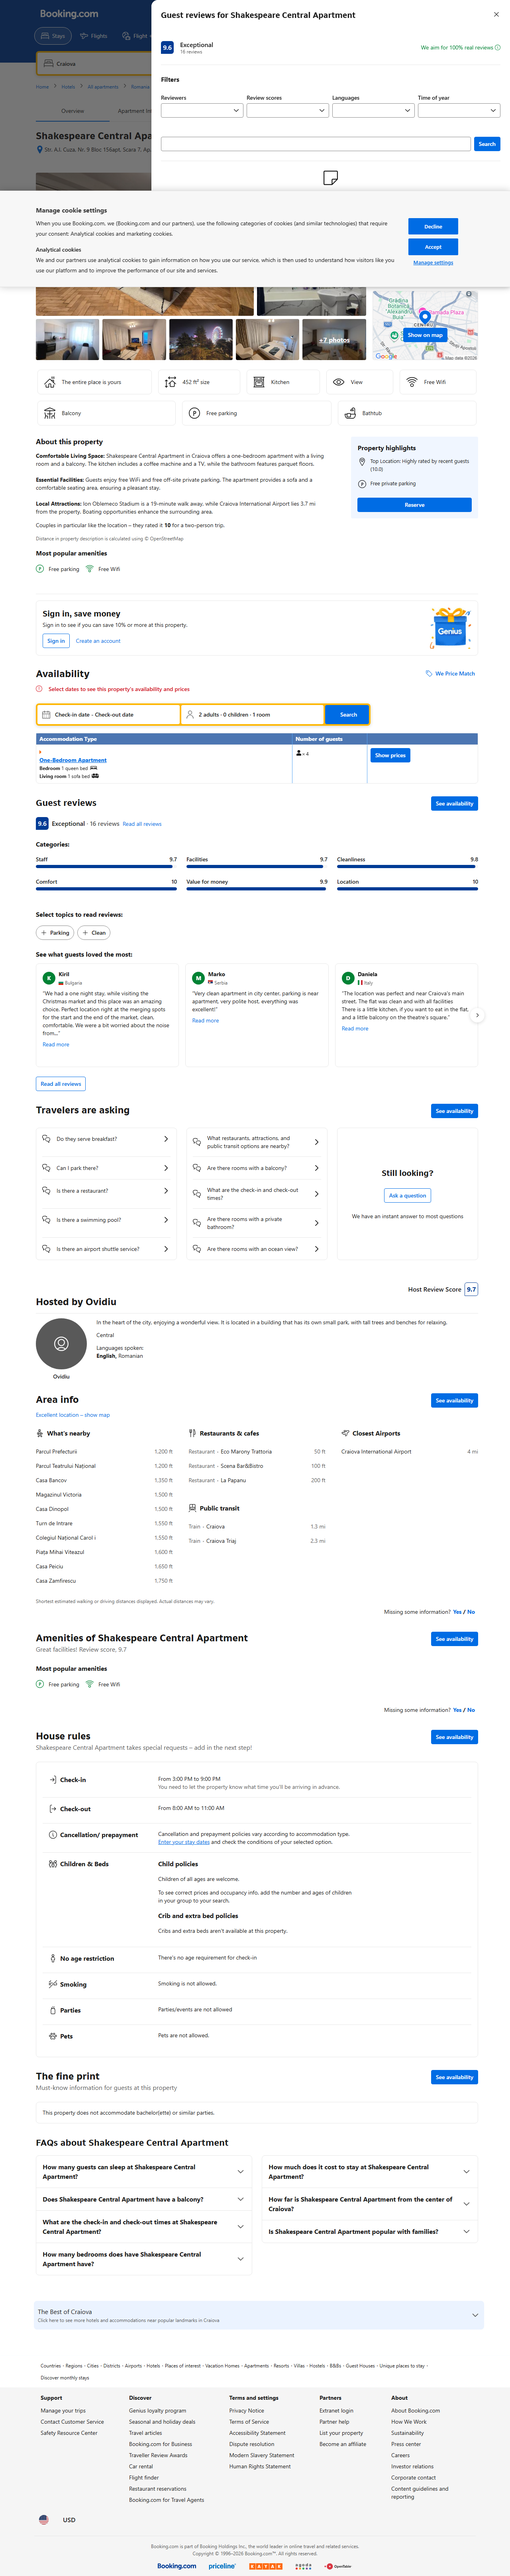
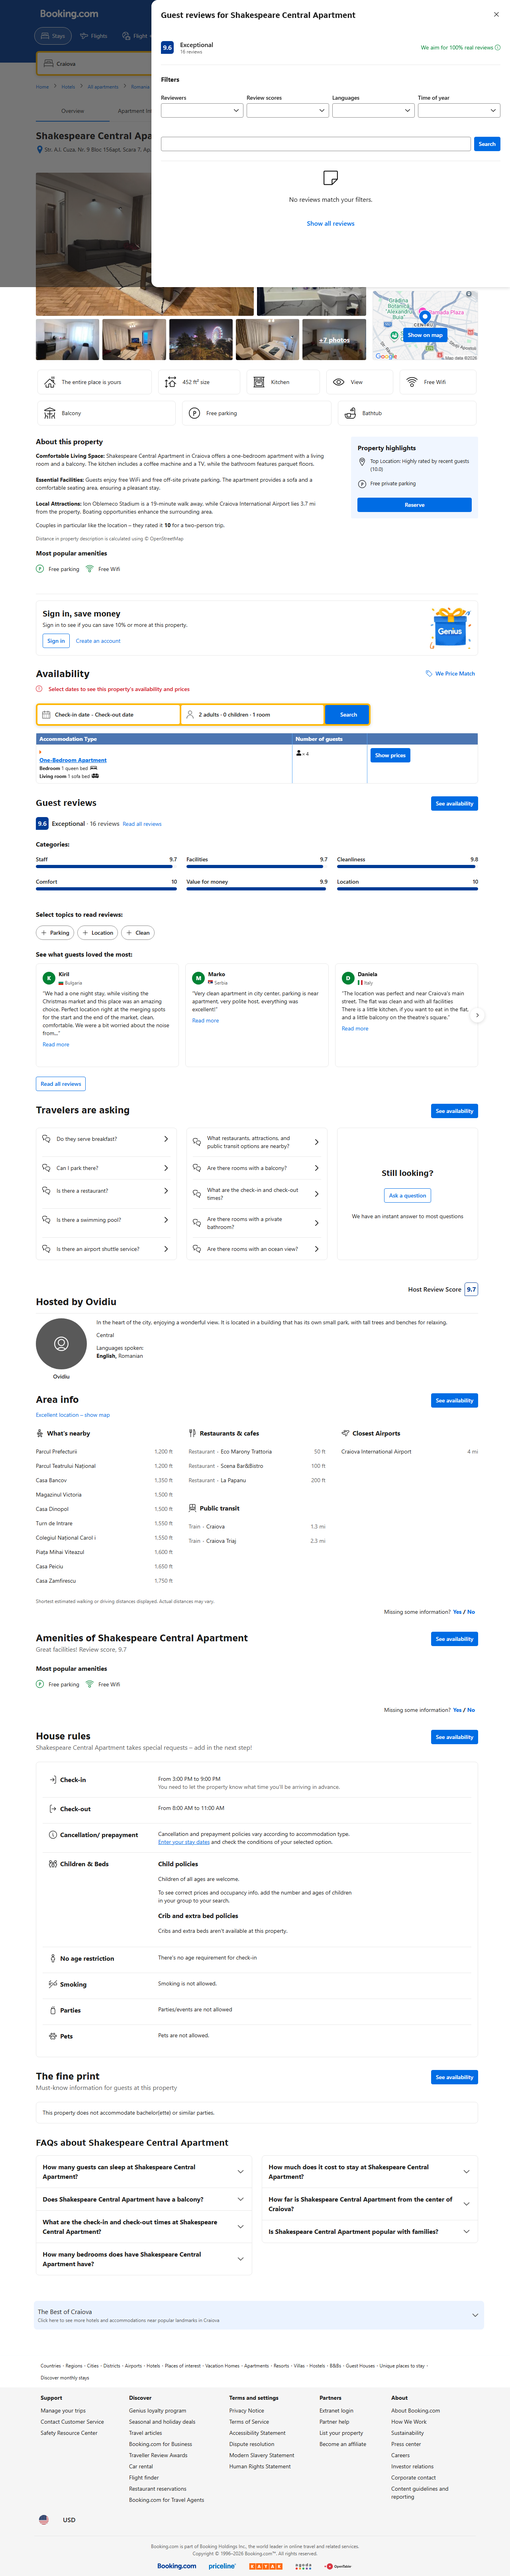
fix scrape.js to show first page with reviews

Changed region(s): [[0.0, 0.0622, 0.3125, 0.1245], [0.8125, 0.0622, 0.9062, 0.1245]]

diff --git a/backend/scrape.js b/backend/scrape.js
@@ -1,50 +1,91 @@
 const { chromium } = require("playwright");
 const fs = require("fs-extra");
+const path = require("path");
 
 const BOOKING_URL =
   "https://www.booking.com/hotel/ro/shakespeare-central-apartment.html";
 
 async function scrapeReviews() {
-  console.log("Starting Booking scrape...");
-
   const browser = await chromium.launch({
-    headless: true,
+    headless: false,
   });
 
   const page = await browser.newPage();
 
   try {
     await page.goto(BOOKING_URL, {
-      waitUntil: "networkidle",
+      waitUntil: "domcontentloaded",
     });
 
-    // 1. click pe Reviews tab
+    // ACCEPT COOKIES
+    const acceptButton = page.locator(
+      'button:has-text("Accept")'
+    );
+
+    if (await acceptButton.count()) {
+      await acceptButton.first().click();
+    }
+
+    // deschide modal reviews
     await page.locator("#reviews-tab-trigger").click();
-    await page.waitForTimeout(5000);
 
-    // 2. debug (foarte important)
-    await page.screenshot({ path: "reviews.png", fullPage: true });
-
-    // 3. încearcă să găsești review-uri
-    const reviews = await page.evaluate(() => {
-      const text = document.body.innerText;
-
-      const blocks = text
-        .split("\n")
-        .filter((t) => t.length > 80);
-
-      return blocks.slice(0, 20).map((t) => ({
-        text: t.slice(0, 300),
-      }));
+    // așteaptă modalul
+    await page.waitForSelector('[data-testid="review-card"]', {
+      timeout: 15000,
     });
 
-    await fs.writeJson("reviews.json", reviews, {
-      spaces: 2,
+    // screenshot debug
+    await page.screenshot({
+      path: "reviews-modal.png",
+      fullPage: true,
     });
 
-    console.log("Saved reviews:", reviews.length);
+    // EXTRAGE REVIEW-URI DIN MODAL
+    const reviews = await page.$$eval(
+      '[data-testid="review-card"]',
+      (cards) => {
+        return cards.map((card) => {
+          const name =
+            card.querySelector(
+              '[data-testid="reviewer-name"]'
+            )?.textContent || "";
+
+          const score =
+            card.querySelector(
+              '[data-testid="review-score"]'
+            )?.textContent || "";
+
+          const positive =
+            card.querySelector(
+              '[data-testid="review-positive-text"]'
+            )?.textContent || "";
+
+          const negative =
+            card.querySelector(
+              '[data-testid="review-negative-text"]'
+            )?.textContent || "";
+
+          return {
+            name: name.trim(),
+            score: score.trim(),
+            positive: positive.trim(),
+            negative: negative.trim(),
+          };
+        });
+      }
+    );
+
+    console.log(reviews);
+
+    await fs.writeJson(
+      path.join(__dirname, "reviews.json"),
+      reviews,
+      { spaces: 2 }
+    );
+
+    console.log(`Saved ${reviews.length} reviews`);
   } catch (err) {
-    console.error("SCRAPE ERROR:", err);
+    console.error(err);
   } finally {
     await browser.close();
   }
